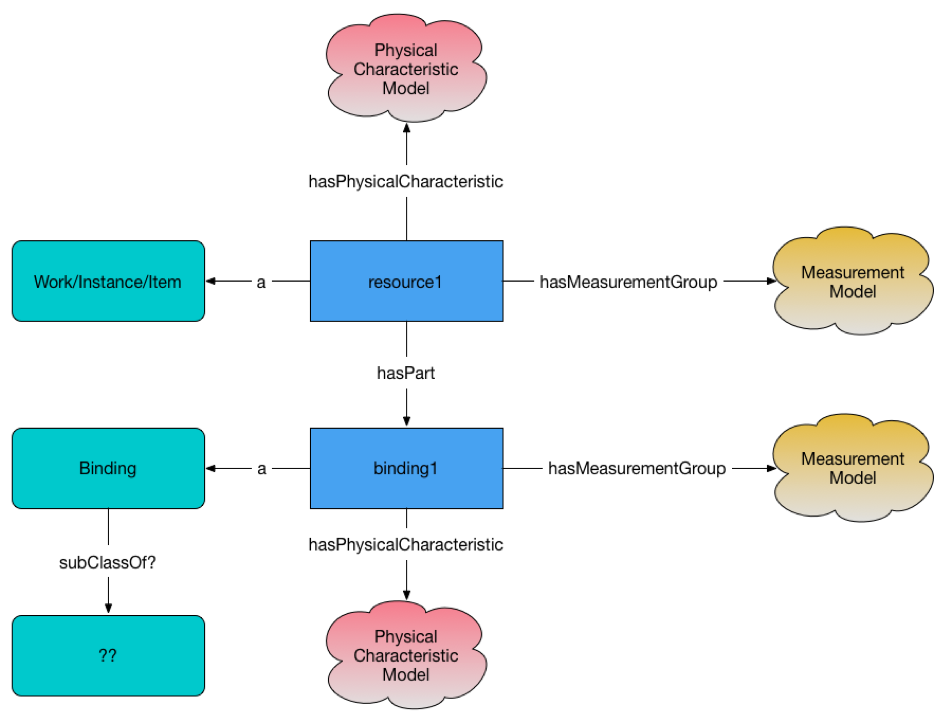
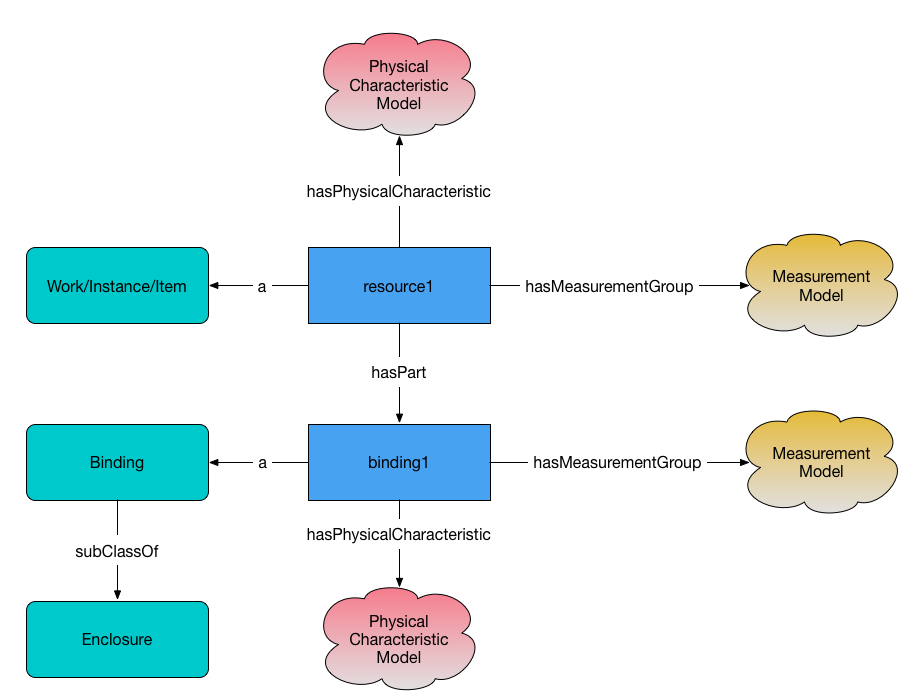
Update measurement diagrams, add a couple of notes to measurements recommendation

diff --git a/modeling_recommendations/measurements.md b/modeling_recommendations/measurements.md
@@ -205,9 +205,14 @@ Whether or not the model is used in this way in our descriptions is an implement
 -   Note that each value of dcterms:description is atomic: there should be one assertion for each literal value, rather than combining values into a composite string.
 
 
-### Diagram 2: Single resource with multiple measurement group and descriptions
+### <a name="diagram-2">Diagram 2: Single resource with multiple measurement group and descriptions</a>
 
 ![Measurement diagram 2](/modeling_recommendations/modeling_diagrams/measurement_multiple.png)
+
+**Notes**
+
+- The use of dcterms:descriptions is similar to the use of Arrangement resources (see [Diagram 5](#diagram-5)) to describe different measurements for a resource in different states, but description literals are used in cases where a controlled vocabulary
+cannot be defined due to variability of the state.
 
 
 ### Diagram 3: Measurements of whole and part: part a resource
@@ -235,6 +240,8 @@ Whether or not the model is used in this way in our descriptions is an implement
 -   Rationale for a state object is not necessarily that there are other assertions to be made about it, but that a controlled vocabulary of states, rather than literal values, can be used.
 
 -   Examples of resources with arrangements: road maps (folded/unfolded), parchments (rolled/unrolled), book (open/closed).
+
+-   The use of arrangements is similar to the use of dcterms:descriptions to associate different measurements with a resource (see [Diagram 2](#diagram-2), but in the case of arrangements it is possible to define a controlled vocabulary.
 
 -   The measurements attached directly to the Work/Instance/Item resource do not specify a particular arrangement, but presumably it is different from the folded arrangement.
 
